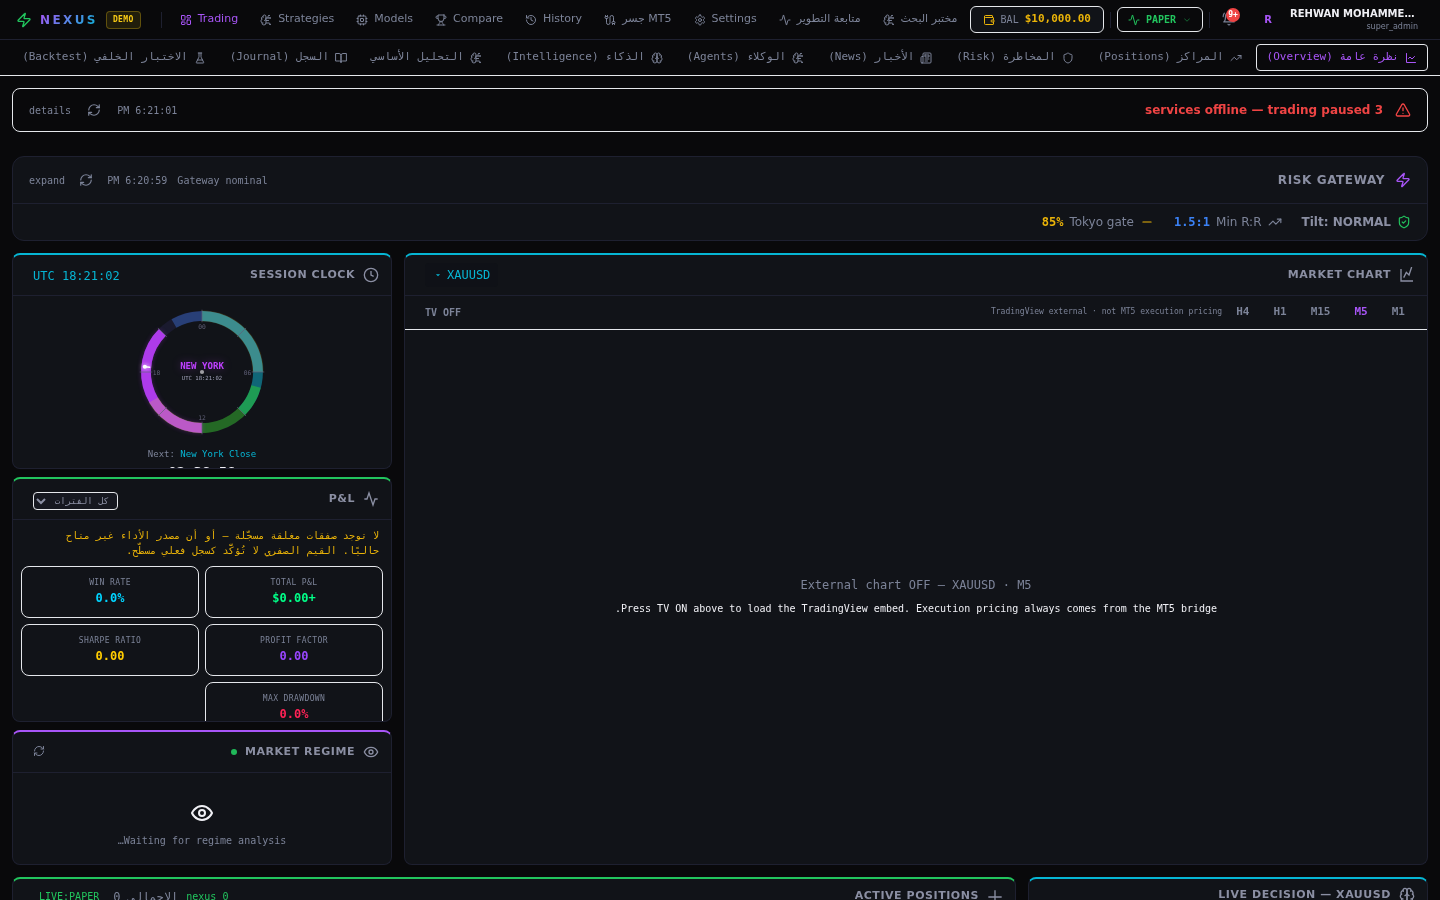
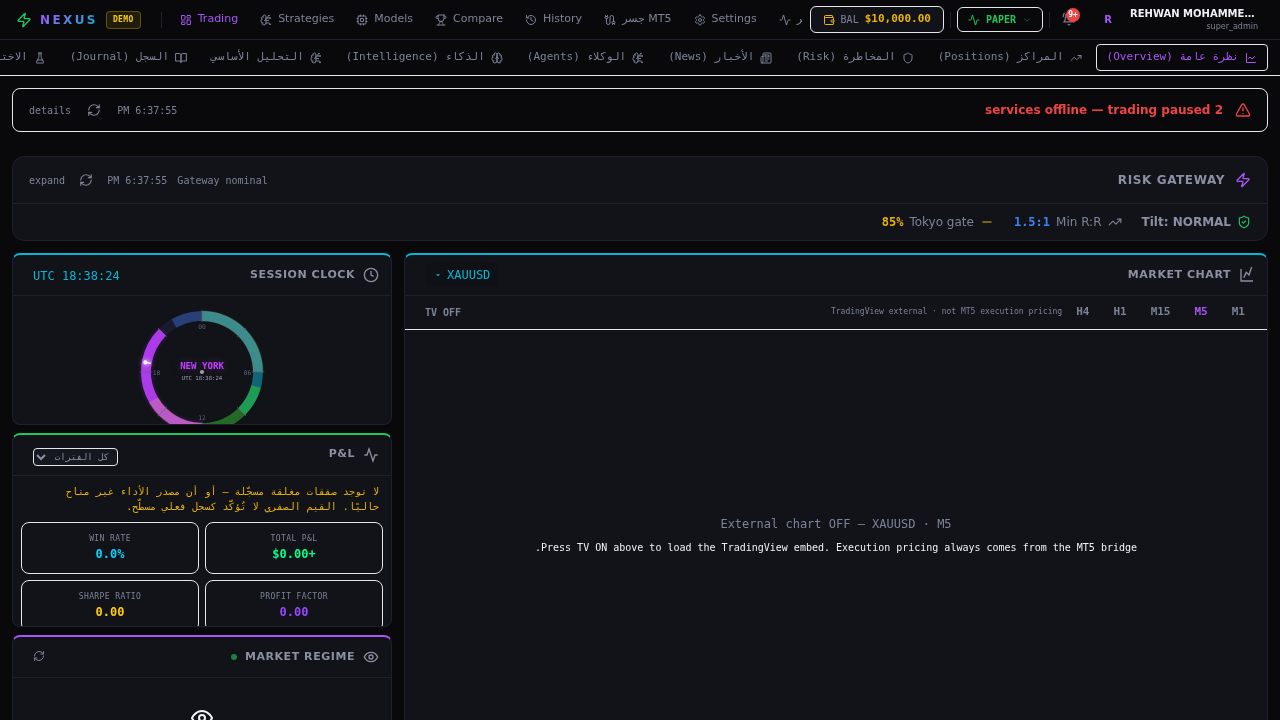
test(qa): D2 v4 fresh-browser evidence refresh — 6/6 isolated sessions rt 5-6ms default-OFF + opt-in path; v1/v2 'Target crashed' attributed to environmental OOM (dmesg chrome-headless, zero-swap box, N5) not TV; register note added

diff --git a/qa/DEFECT_REGISTER.md b/qa/DEFECT_REGISTER.md
@@ -7,7 +7,7 @@
 | ID | التاريخ | المكوّن | الوصف | الخطورة | الجذر | الإصلاح | Commit | Retest |
 |---|---|---|---|---|---|---|---|---|
 | D1 | 2026-11-04 | nexus-api | `No module named 'jwt'` يمنع الإقلاع النظيف | عالٍ | PyJWT غائب عن requirements رغم الاستيراد المباشر | إضافة PyJWT>=2.9,<3 | e492767 | إقلاع كامل + دخول 200 ✅ |
-| D2 | 2026-11-04 | dashboard | تجمّد تبويب بعد 15–25s (iframe TradingView ثقيل) | حرج | WebGL/canvas على صندوق 2vCPU | مفتاح TV ON/OFF + mount مؤجل 2.5s + lazy | 842aa03 | **إعادة اختبار رسمية 2026-11-05**: كشفت انحداراً (`null !== 0` جعل الجلسات الجديدة ON افتراضياً → جمود ~75s) = FAIL موثق؛ ثم **رقعة default-OFF** (`=== '1'`) → **POST-FIX FIXED-VERIFIED**: 6/6 دورات مستجيبة على 90s، صفر ركوب-تلقائي لـTV، صفر أخطاء (d2_retest + d2_postfix_retest 20261105.json) ✅ |
+| D2 | 2026-11-04 | dashboard | تجمّد تبويب بعد 15–25s (iframe TradingView ثقيل) | حرج | WebGL/canvas على صندوق 2vCPU | مفتاح TV ON/OFF + mount مؤجل 2.5s + lazy | 842aa03 | **إعادة اختبار رسمية 2026-11-05**: كشفت انحداراً (`null !== 0` جعل الجلسات الجديدة ON افتراضياً → جمود ~75s) = FAIL موثق؛ ثم **رقعة default-OFF** (`=== '1'`) → **POST-FIX FIXED-VERIFIED**: 6/6 دورات مستجيبة على 90s، صفر ركوب-تلقائي لـTV، صفر أخطاء (d2_retest + d2_postfix_retest 20261105.json) ✅؛ **v4 إضافية**: 6 جلسات بمتصفح معزول لكل جلسة (rt 5–6ms) + انهيارا v1/v2 مُسبِبا بيئياً OOM موثقاً في dmesg (chrome-headless؛ صندوق 4GB بلا swap؛ next-dev ~980MB = N5) وليس TV — history كامل داخل ملف الأدلة ✅ |
 | D3 | 2026-11-04 | api+dashboard | نهاية مسدودة بعد KILL (لا مسار تحرير) | حرج | لا /release في الخادم | POST /api/system/kill-switch/release (PIN إلزامي) + حوار سماوي | 7fe9f3d | KILL→RELEASE→فك؛ PIN خاطئ 403 ✅ |
 | D8 | 2026-11-04 | البوابة/التشغيل | كل /api/ml/* = 502 أبدي | عالٍ | بوابة يدوية بلا NEXUS_ML_URL → منفذ افتراضي خاطئ | تسليم المشرف (env كامل) | حي (لا كود) | 502→200 ✅ |
 | D10 | 2026-11-04 | nexus-api (admin) | إنشاء مستخدم باسم محذوف منطقياً = 200 صامت (لا يُخزّن) + فشل ربط الأدوار، والبوابة تُخفي كل رفض data-service كـ503 عام | عالٍ | UNIQUE(username) ينجو من الحذف المنطقي بينما user_exists يفلتر deleted=FALSE؛ INSERT OR IGNORE يتخطى الصمت؛ الإخفاء يمنع التشخيص | **D10-c** إحياء الصف المحذوف في مكانه (نفس user_id) + **D10-b** rollback الصف إن فشلت الأدوار + **D10-a** إظهار رفض data-service (تحصين لاحق: تفصيل 400 المتحكّم به فقط — لا أجسام خام) | 826eecb + 5921635 | 17/17 ×3 ثم 248/248 ثم انحدار 555/555 ✅ |
